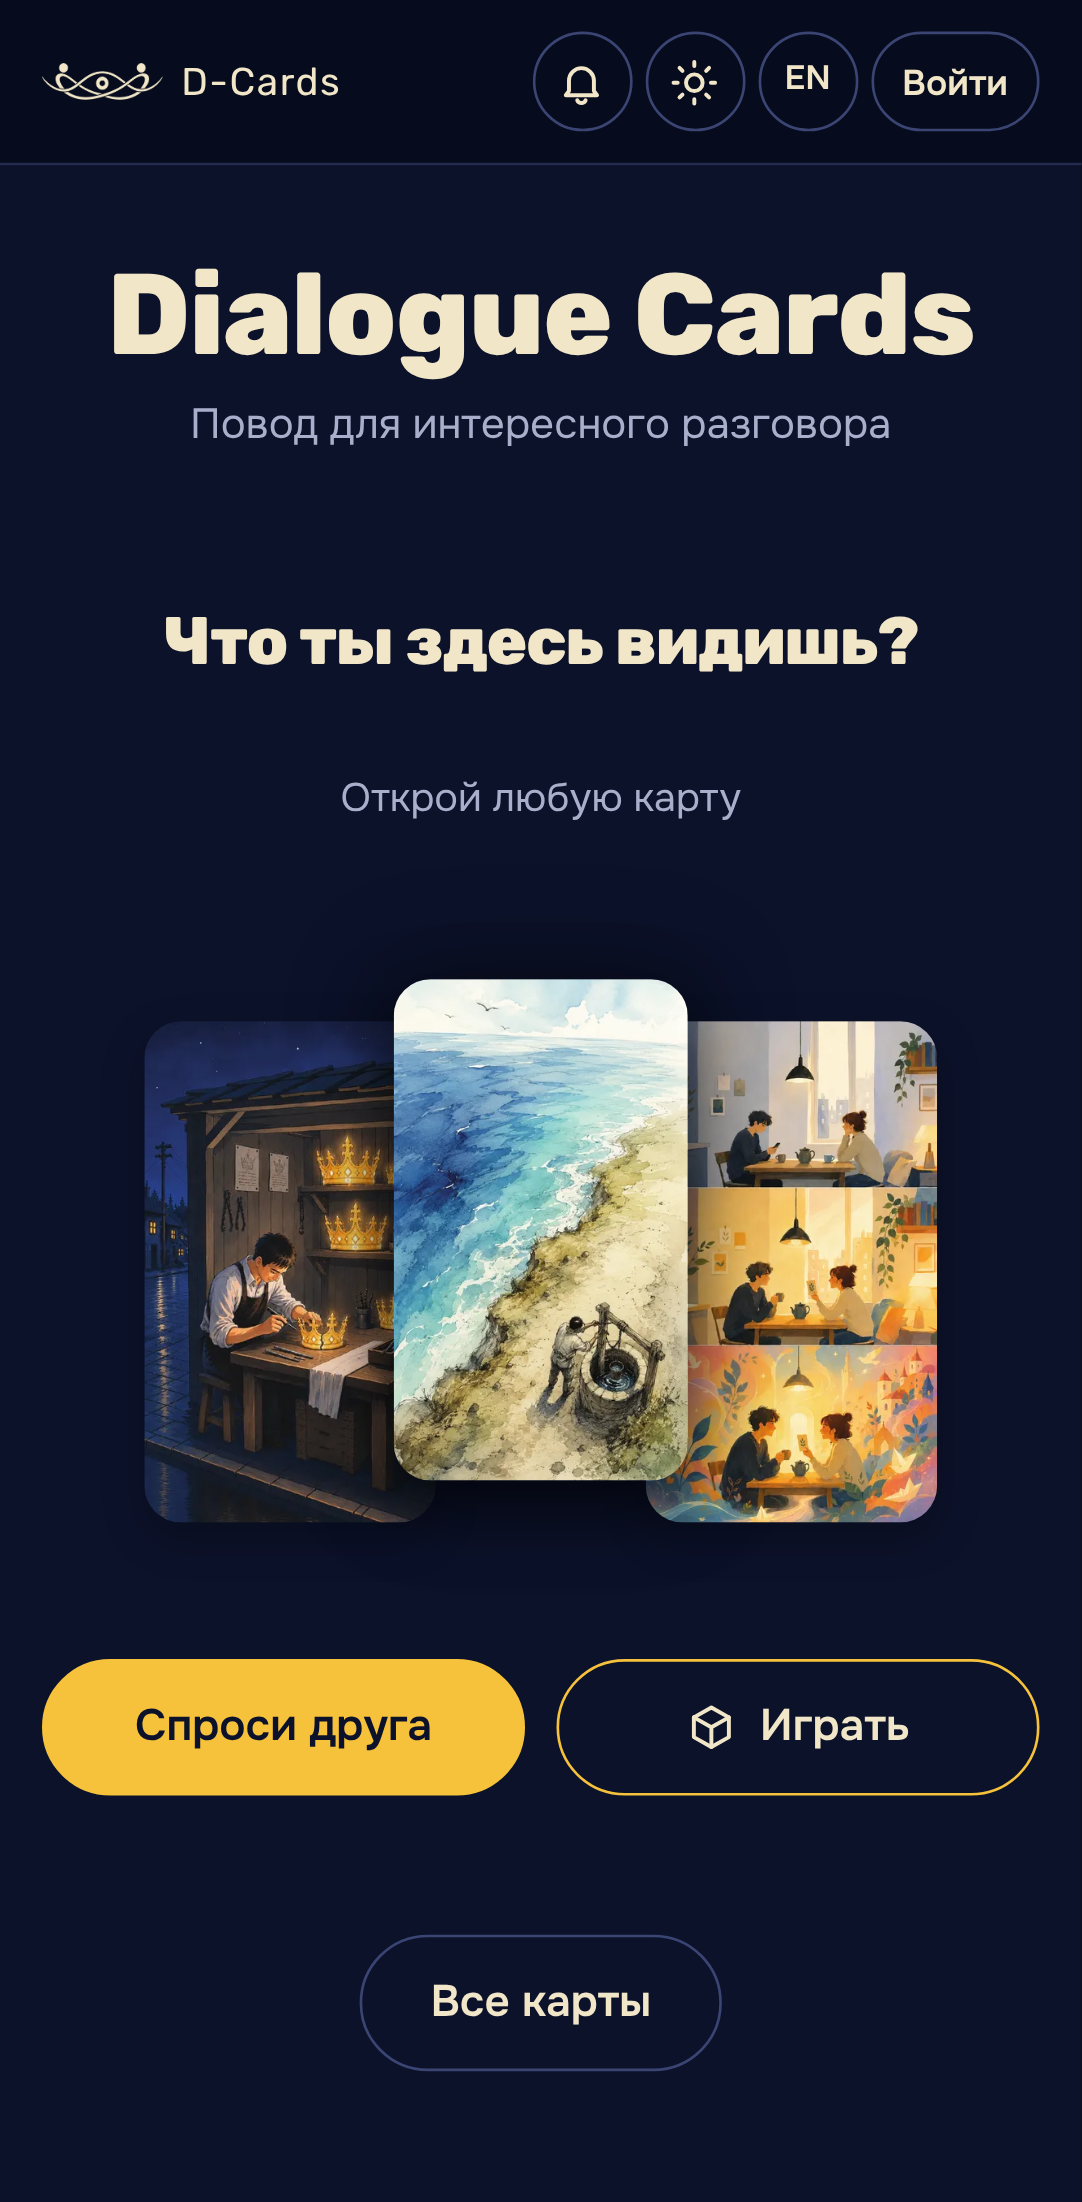
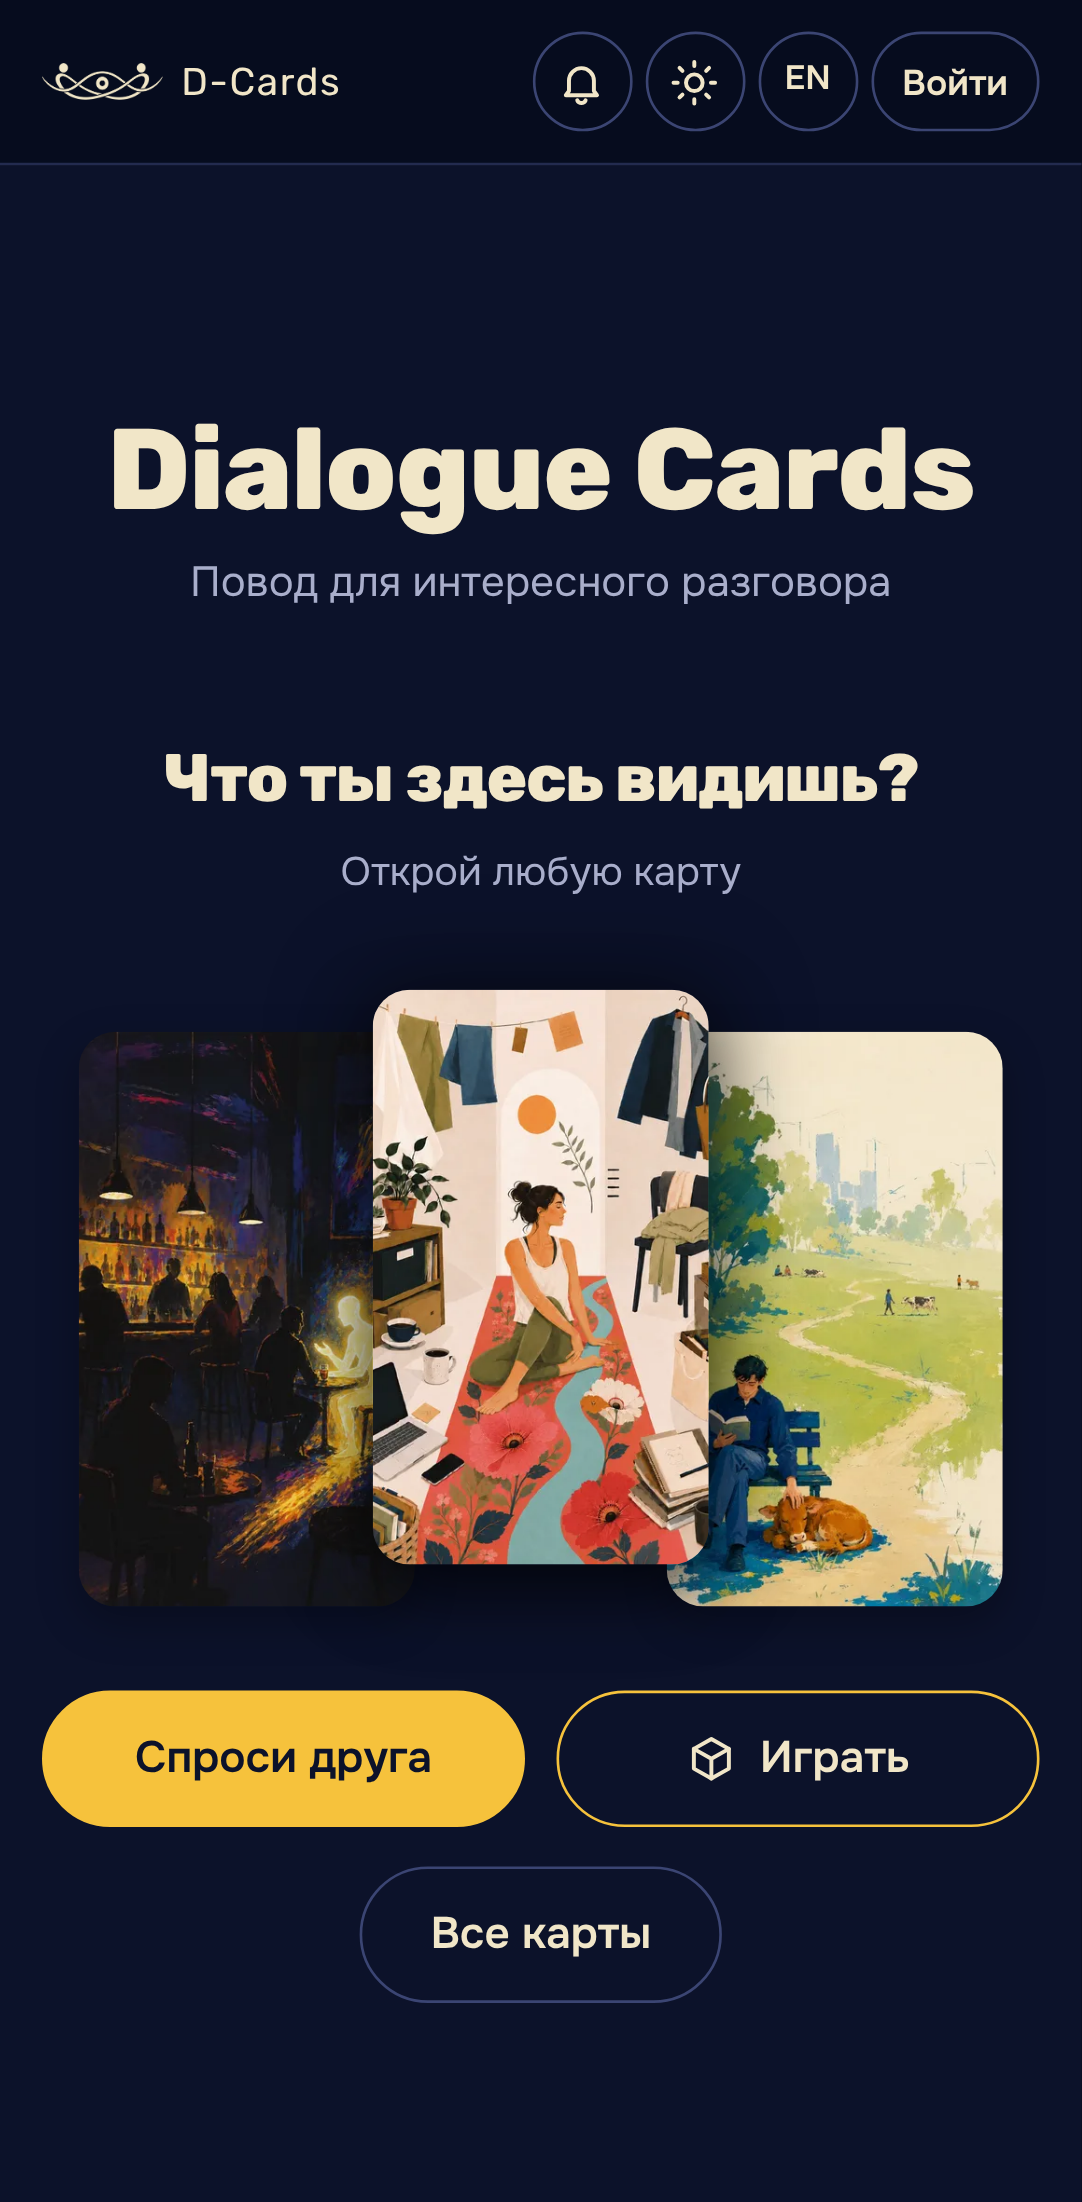
23.11-доп.: редактор открытки без скачков и с открытой палитрой, группы «Выравнивание» и «Подложка текста», «Играть» в галерее без значка, отступы главной по группам
Claude-Session: https://claude.ai/code/session_014jRgitc5vW68gcBz8ANVBU

diff --git a/public/js/views/postcard.js b/public/js/views/postcard.js
@@ -3,7 +3,7 @@
 // Текст — свободный элемент: тап выделяет, перетаскивание пальцем, масштаб двумя пальцами или за круглую ручку; тап мимо снимает
 // выделение. Рамка и ручка — отдельный слой, в картинку не попадают. Предпросмотр, «Мои открытки» и экспорт рисует одна функция.
 // Открытка не меняет число «Выбрали для разговора». Без регистрации.
-import { esc, tt, u, api } from '../util.js';
+import { esc, tt, u, api, morph, listen } from '../util.js';
 import { loading, failed } from '../ui.js';
 import { sendButton, saveImage, sendImage, postcardCaption } from '../share.js';
 import * as personal from '../personal.js';
@@ -52,7 +52,7 @@ export async function postcard(ctx, code) {
     if (ui.tab === 'layout') {
       return `<div class="pc-group"><b>${esc(tt('Расположение иллюстрации', 'Illustration layout'))}</b>
         <div class="pc-layouts">${LAYOUTS.map((l) => `<button type="button" class="pc-layout ${l.key === st.layout ? 'on' : ''}" data-layout="${l.key}" aria-pressed="${l.key === st.layout}"><span class="pc-lmini ${l.key}" aria-hidden="true"><i></i><s></s></span>${esc(tt(l.ru, l.en))}</button>`).join('')}</div></div>
-        ${st.layout !== 'full' ? `<div class="pc-group"><b>${esc(tt('Цвет фона', 'Background colour'))}</b>${swatches(PAPERS, st.paper, 'data-paper', 'data-paper-custom', tt('Свой цвет фона', 'Custom background colour'))}</div>` : ''}`;
+        ${st.layout !== 'full' ? `<div class="pc-group"><b>${esc(tt('Фон открытки', 'Postcard background'))}</b>${swatches(PAPERS, st.paper, 'data-paper', 'data-paper-custom', tt('Свой цвет фона', 'Custom background colour'))}</div>` : ''}`;
     }
     return `<div class="pc-group"><label for="pct"><b>${esc(tt('Надпись', 'Text'))}</b></label>
         <textarea id="pct" rows="3" maxlength="240" placeholder="${esc(tt('Пожелание, наблюдение или привет — можно без надписи', 'A wish, an observation or a hello — or no text at all'))}">${esc(st.text)}</textarea>
@@ -62,16 +62,17 @@ export async function postcard(ctx, code) {
       <div class="pc-group"><b>${esc(tt('Шрифт', 'Font'))}</b><div class="pc-fonts">${FONTS.map((f) => `<button type="button" class="pc-font ${f.key === st.font ? 'on' : ''}" data-font="${f.key}" aria-pressed="${f.key === st.font}"><span class="pc-font-name">${esc(tt(f.ru, f.en))}</span><span class="pc-font-sample" style="font-family:${f.family};font-weight:${weightOf(f, st.weight)}">${esc(sample())}</span></button>`).join('')}</div></div>
       <div class="pc-group"><b>${esc(tt('Начертание', 'Weight'))}</b><div class="pc-row">${WEIGHTS.map(([w, ru, en]) => chip('data-weight', w, st.weight, esc(tt(ru, en)))).join('')}</div></div>
       <div class="pc-group"><b>${esc(tt('Размер', 'Size'))}</b><input type="range" data-size min="0.02" max="0.16" step="0.002" value="${st.k}" aria-label="${esc(tt('Размер текста', 'Text size'))}"></div>
-      <div class="pc-group"><b>${esc(tt('Цвет', 'Colour'))}</b>${swatches(TEXT_COLORS.map((c) => [c]), st.color, 'data-color', 'data-color-custom', tt('Свой цвет текста', 'Custom text colour'))}</div>
-      <div class="pc-group"><b>${esc(tt('Положение', 'Position'))}</b><div class="pc-row">${[['left', 'По левому краю', 'Left'], ['center', 'По центру', 'Centre'], ['right', 'По правому краю', 'Right']].map(([k, ru, en]) => chip('data-align', k, st.align, esc(tt(ru, en)))).join('')}</div>
-        <div class="pc-row">${chip('data-bg', 'none', st.bg, esc(tt('Без подложки', 'No backing')))}${st.layout === 'full' ? chip('data-bg', 'grad', st.bg, esc(tt('Затемнение', 'Shade'))) : ''}${chip('data-bg', 'plate', st.bg, esc(tt('Плашка', 'Plate')))}</div>
-        ${st.bg !== 'none' ? `<div class="pc-row">${chip('data-tone', 'dark', st.tone, esc(tt('Тёмная', 'Dark')))}${chip('data-tone', 'light', st.tone, esc(tt('Светлая', 'Light')))}</div>` : ''}</div>
+      <div class="pc-group"><b>${esc(tt('Цвет текста', 'Text colour'))}</b>${swatches(TEXT_COLORS.map((c) => [c]), st.color, 'data-color', 'data-color-custom', tt('Свой цвет текста', 'Custom text colour'))}</div>
+      <div class="pc-group"><b id="pc-al">${esc(tt('Выравнивание', 'Alignment'))}</b><div class="pc-seg3" role="radiogroup" aria-labelledby="pc-al">${[['left', 'По левому краю', 'Left'], ['center', 'По центру', 'Centre'], ['right', 'По правому краю', 'Right']].map(([k, ru, en]) => `<button type="button" role="radio" class="${k === st.align ? 'on' : ''}" aria-checked="${k === st.align}" data-align="${k}">${esc(tt(ru, en))}</button>`).join('')}</div></div>
+      <div class="pc-group"><b id="pc-bk">${esc(tt('Подложка текста', 'Text backing'))}</b><span class="small muted">${esc(tt('Заливка прямо под надписью — не фон открытки', 'A fill right under the text — not the postcard background'))}</span>
+        <div class="pc-seg3 two" role="radiogroup" aria-labelledby="pc-bk">${[['none', 'Без подложки', 'No backing'], ['plate', 'С заливкой', 'With a fill']].map(([k, ru, en]) => `<button type="button" role="radio" class="${(k === 'plate' ? st.bg !== 'none' : st.bg === 'none') ? 'on' : ''}" aria-checked="${k === 'plate' ? st.bg !== 'none' : st.bg === 'none'}" data-bg="${k}">${esc(tt(ru, en))}</button>`).join('')}</div>
+        ${st.bg !== 'none' ? `<div class="pc-sub"><span class="small">${esc(tt('Заливка', 'Fill'))}</span><div class="pc-row">${chip('data-tone', 'dark', st.tone, esc(tt('Тёмная', 'Dark')))}${chip('data-tone', 'light', st.tone, esc(tt('Светлая', 'Light')))}</div></div>` : ''}</div>
       <button class="link-btn" type="button" data-notext style="justify-self:start">${esc(tt('Убрать надпись', 'Remove the text'))}</button>` : ''}`;
   }
   function render() {
     const focusId = document.activeElement && document.activeElement.id;
     const sel = focusId === 'pct' ? [document.activeElement.selectionStart, document.activeElement.selectionEnd] : null;
-    ctx.main.innerHTML = `<div class="wrap page narrow stack pc-page editing">
+    const html = `<div class="wrap page narrow stack pc-page editing">
       <h1 class="pc-title">${esc(tt('Создание открытки', 'Create a postcard'))}</h1>
       <div class="pc-stage"><div class="pc-wrap"><canvas id="pc" role="img" aria-label="${esc(tt('Предпросмотр открытки', 'Postcard preview'))}"></canvas><div class="pc-sel" hidden><span class="pc-handle" aria-hidden="true">${HANDLE}</span></div></div></div>
       <div class="pc-tabs two" role="tablist">${[['layout', 'Макет', 'Layout'], ['text', 'Текст', 'Text']].map(([k, ru, en]) => `<button type="button" role="tab" class="${k === ui.tab ? 'on' : ''}" aria-selected="${k === ui.tab}" data-tab="${k}">${esc(tt(ru, en))}</button>`).join('')}</div>
@@ -82,6 +83,9 @@ export async function postcard(ctx, code) {
           <button class="btn light" type="button" data-save ${ui.overflow ? 'disabled' : ''}>${esc(tt('Сохранить изображение', 'Save image'))}</button></div>
         <div class="pc-status" role="status">${ui.savedMsg ? `<b>${esc(ui.savedMsg)}</b> <a href="${u('/me/postcards')}">${esc(tt('Открыть мои открытки', 'Open my postcards'))}</a>${ui.savedId ? ` · <button class="link-btn" type="button" data-asnew>${esc(tt('Сохранить как новую', 'Save as new'))}</button>` : ''}` : ''}${ui.hint ? `<p class="vb-note" style="margin:4px 0 0">${esc(ui.hint)}</p>` : ''}</div>
       </div></div>`;
+    const y = window.scrollY;
+    if (ctx.main.querySelector('.pc-page')) morph(ctx.main, html); else ctx.main.innerHTML = html;
+    if (Math.abs(window.scrollY - y) > 1) window.scrollTo(0, y);
     const cv = ctx.main.querySelector('#pc'); paint(cv);
     wire(cv);
     if (focusId === 'pct') { const t = ctx.main.querySelector('#pct'); if (t) { t.focus(); if (sel) t.setSelectionRange(sel[0], sel[1]); } }
@@ -121,7 +125,7 @@ export async function postcard(ctx, code) {
     const ccu = $('[data-color-custom]'); if (ccu) { ccu.oninput = () => { st.color = ccu.value; ui.touched = true; redrawOnly(); }; ccu.onchange = () => render(); }
     const sz = $('[data-size]'); if (sz) sz.oninput = () => { st.k = Number(sz.value); ui.sel = true; redrawOnly(); };
     const nt = $('[data-notext]'); if (nt) nt.onclick = () => { st.text = ''; ui.sel = false; render(); };
-    const ta = $('#pct'); if (ta) ta.addEventListener('input', () => { const had = hasText(); st.text = ta.value; ui.sel = hasText(); ui.savedMsg = ''; if (had !== hasText()) render(); else redrawOnly(); });
+    const ta = $('#pct'); if (ta) listen(ta, 'input', () => { const had = hasText(); st.text = ta.value; ui.sel = hasText(); ui.savedMsg = ''; if (had !== hasText()) render(); else redrawOnly(); });
     // текст на открытке: тап выделяет; перетаскивание одним пальцем, масштаб — двумя пальцами или за ручку; тап мимо снимает выделение
     const pts = new Map(); let drag = null; let pinch = null; let resize = null;
     const pt = (e) => { const r = cv.getBoundingClientRect(); const g = geo(st, W, H); return [(e.clientX - r.left) * (g.CW / r.width), (e.clientY - r.top) * (g.CH / r.height)]; };

diff --git a/public/css/app.css b/public/css/app.css
@@ -1667,3 +1667,40 @@ textarea.autogrow { min-height: 0; resize: none; overflow: hidden; line-height: 
   .home-hint { margin-top: 0; }
 }
 @media (max-width: 360px) { .home-acts .btn { white-space: nowrap; padding-inline: 12px; font-size: 1rem; } }
+/* редактор открытки (23.11.2026): группы настроек с одинаковыми отступами; выравнивание и подложка — одним рядом */
+.pc-panel { display: grid; gap: 22px; }
+.pc-panel .pc-group { display: grid; gap: 10px; }
+.pc-panel .pc-group > b { font-size: .95rem; }
+.pc-seg3 { display: grid; grid-template-columns: repeat(3, minmax(0, 1fr)); border: 1px solid var(--border-strong); border-radius: 12px; overflow: hidden; }
+.pc-seg3.two { grid-template-columns: repeat(2, minmax(0, 1fr)); }
+.pc-seg3 button { border: 0; background: transparent; color: var(--text); padding: 10px 6px; min-height: 44px; font: inherit; font-size: .9rem; line-height: 1.2; cursor: pointer; text-align: center; }
+.pc-seg3 button + button { border-left: 1px solid var(--border-strong); }
+.pc-seg3 button.on { background: var(--accent); color: var(--on-accent); font-weight: 700; }
+.pc-seg3 button:focus-visible { outline: 3px solid var(--focus); outline-offset: -3px; }
+.pc-sub { display: grid; gap: 6px; padding-left: 12px; border-left: 2px solid var(--border); }
+/* галерея: «Играть» — только текст, по размеру как «Случайная карта» */
+.gal-play svg { display: none; }
+.gal-play { padding-inline: 22px; justify-content: center; }
+/* главная (23.11.2026, вторая правка): явная система отступов вместо автоматического распределения.
+   Группы: название+слоган · вопрос+подсказка · три карты · две кнопки · «Все карты».
+   Внутри группы — малый шаг, между группами — большой (растёт с высотой экрана); блок по центру первого экрана. */
+.hero.home { --g-in: clamp(6px, 1.1vh, 10px); --g-out: clamp(20px, 4.2vh, 46px); justify-content: center; }
+.hero.home .wrap.home-wrap { flex: 0 0 auto; justify-content: flex-start; gap: var(--g-out); padding-block: clamp(26px, 5vh, 60px) clamp(22px, 4vh, 48px); }
+.hero.home .home-title { display: grid; gap: var(--g-in); }
+.hero.home .home-title .greet { margin: 0; }
+.hero.home .home-axis { flex: 0 0 auto; justify-content: flex-start; gap: 0; max-height: none; }
+.hero.home .home-axis .home-q { margin: 0; }
+.hero.home .home-hint { margin: var(--g-in) 0 0; }
+.hero.home .home-axis .trio { margin: calc(var(--g-out) * .6) 0 0; padding: 18px 0 0; }
+.hero.home .home-acts { margin-top: calc(var(--g-out) * .75); }
+.hero.home .home-axis .home-all { margin-top: calc(var(--g-in) * 1.6); }
+@media (max-width: 899px) and (max-height: 600px) { .hero.home { --g-out: 16px; } .hero.home .wrap.home-wrap { padding-block: 18px 16px; } }
+/* высокие телефоны: карты крупнее и шаг между группами больше — без пустых полей сверху и снизу */
+@media (max-width: 899px) and (min-height: 701px) {
+  .hero.home { --g-out: clamp(24px, 5.2vh, 56px); }
+  .hero.home .trio img, .hero.home .trio .slot { width: min(31vw, 21vh, 200px); }
+  .hero.home .home-axis .trio { min-height: calc(min(31vw, 21vh, 200px) * 12 / 7 + 22px); }
+}
+@media (min-width: 900px) and (max-height: 860px) { .hero.home { --g-out: clamp(16px, 3.2vh, 30px); } .hero.home .wrap.home-wrap { padding-block: 22px 18px; } }
+.play-rows.gal-acts { flex-wrap: nowrap; }
+@media (max-width: 360px) { .gal-acts .btn { padding-inline: 12px; font-size: .95rem; } .gal-play { padding-inline: 16px; } }

diff --git a/public/js/views/public.js b/public/js/views/public.js
@@ -116,7 +116,7 @@ export async function library(ctx) {
     <div id="pick">${pickHtml()}</div>
     <div class="row between"><div><h1>${esc(tt('Галерея карт', 'Card gallery'))}</h1>
       <p class="muted gal-hint" ${intent ? 'hidden' : ''}>${esc(hintText())}</p></div>
-      <div class="play-rows gal-acts" id="play">${diceButtonHtml()}<a class="btn light gal-play" href="${u('/games')}" ${intent ? 'hidden' : ''}>${ic.cube}<span>${esc(tt('Играть', 'Play'))}</span></a></div></div>
+      <div class="play-rows gal-acts" id="play">${diceButtonHtml()}<a class="btn light gal-play" href="${u('/games')}" ${intent ? 'hidden' : ''}><span>${esc(tt('Играть', 'Play'))}</span></a></div></div>
     ${cards.length ? `<div class="seg gal-order" role="radiogroup" aria-label="${esc(tt('Порядок карт', 'Card order'))}"><button type="button" role="radio" data-order="new" aria-checked="${order === 'new'}">${esc(tt('Сначала новые', 'Newest first'))}</button><button type="button" role="radio" data-order="mix" aria-checked="${order === 'mix'}">${esc(tt('Вперемешку', 'Shuffled'))}</button></div>
       <div class="grid" id="gal">${cards.map((c, i) => tileHtml(c, i)).join('')}</div>` : `<p class="empty">${esc(tt('В галерее пока нет карт.', 'No cards in the gallery yet.'))}</p>`}
     <div class="gallery-end"><a class="btn yellow big" href="${u('/start#join')}">${ic.people} ${esc(tt('Участвовать в проекте', 'Take part in the project'))}</a>
